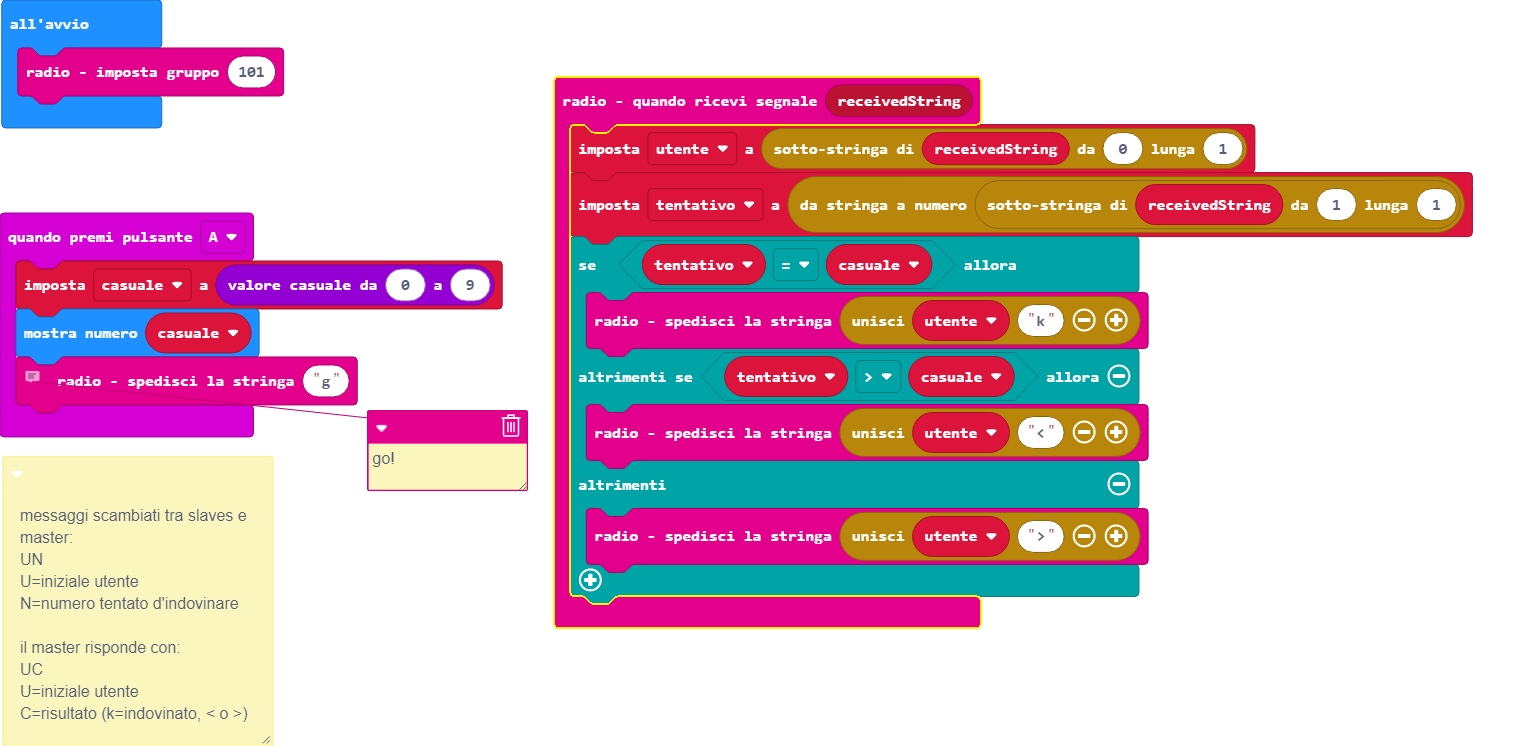
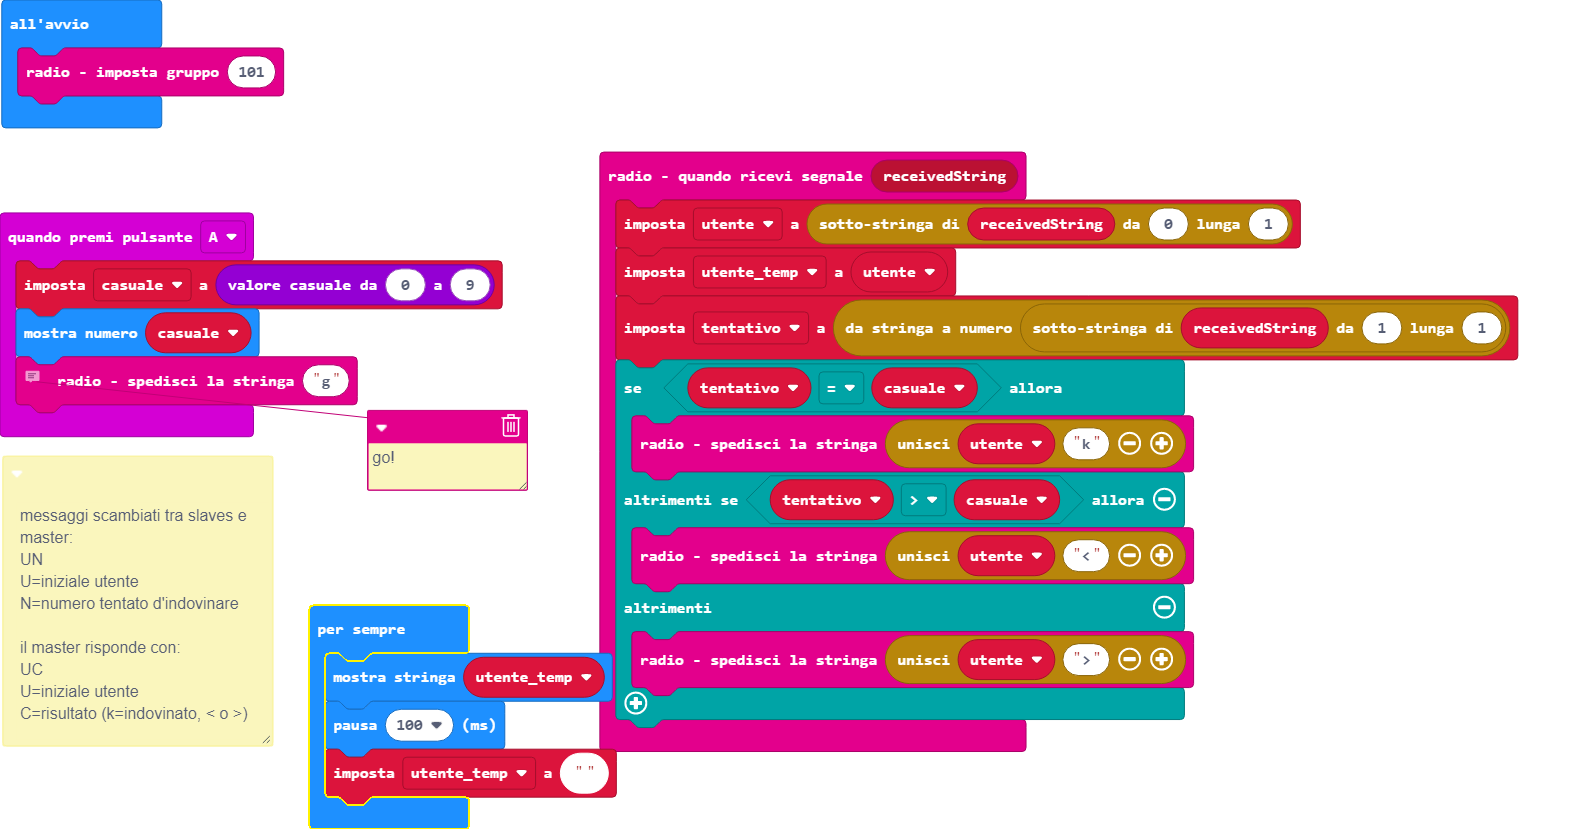
Aggiorna main.blocks, main.ts

diff --git a/main.ts b/main.ts
@@ -23,6 +23,7 @@ input.onButtonPressed(Button.A, function () {
 })
 radio.onReceivedString(function (receivedString) {
     utente = receivedString.substr(0, 1)
+    utente_temp = utente
     tentativo = parseFloat(receivedString.substr(1, 1))
     if (tentativo == casuale) {
         radio.sendString("" + utente + "k")
@@ -33,6 +34,12 @@ radio.onReceivedString(function (receivedString) {
     }
 })
 let tentativo = 0
+let utente_temp = ""
 let utente = ""
 let casuale = 0
 radio.setGroup(101)
+basic.forever(function () {
+    basic.showString(utente_temp)
+    basic.pause(100)
+    utente_temp = ""
+})
